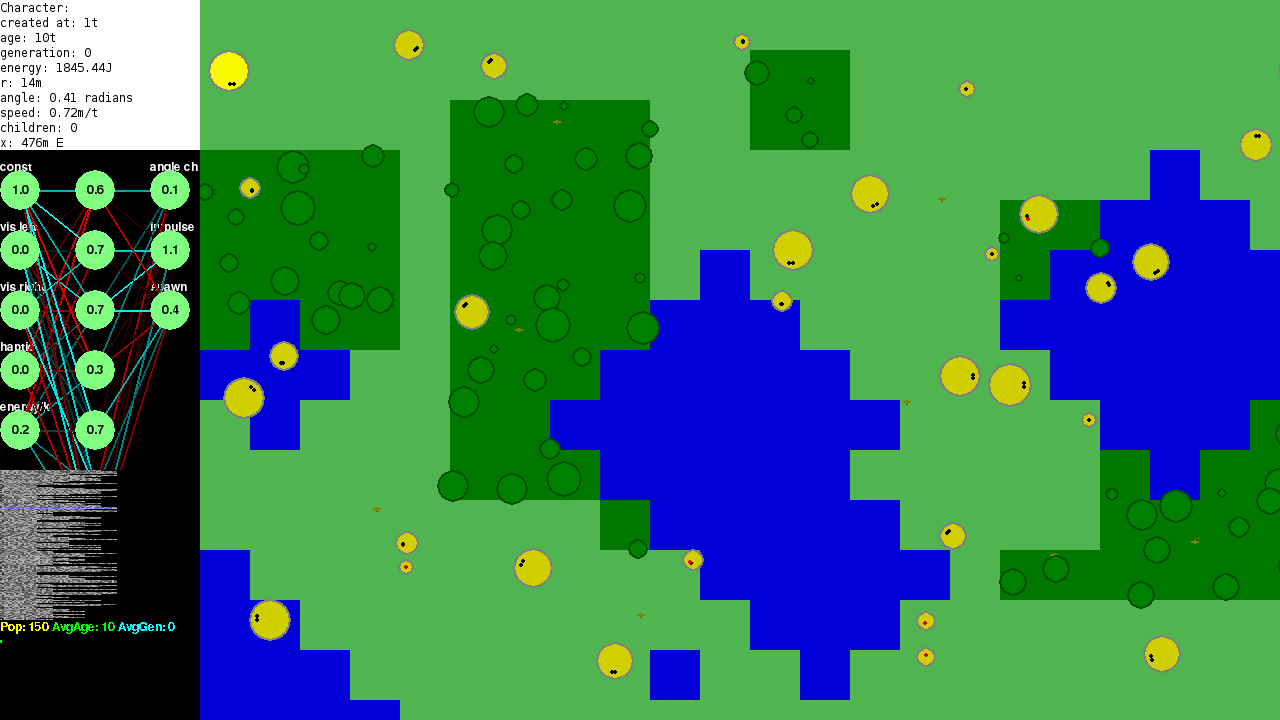
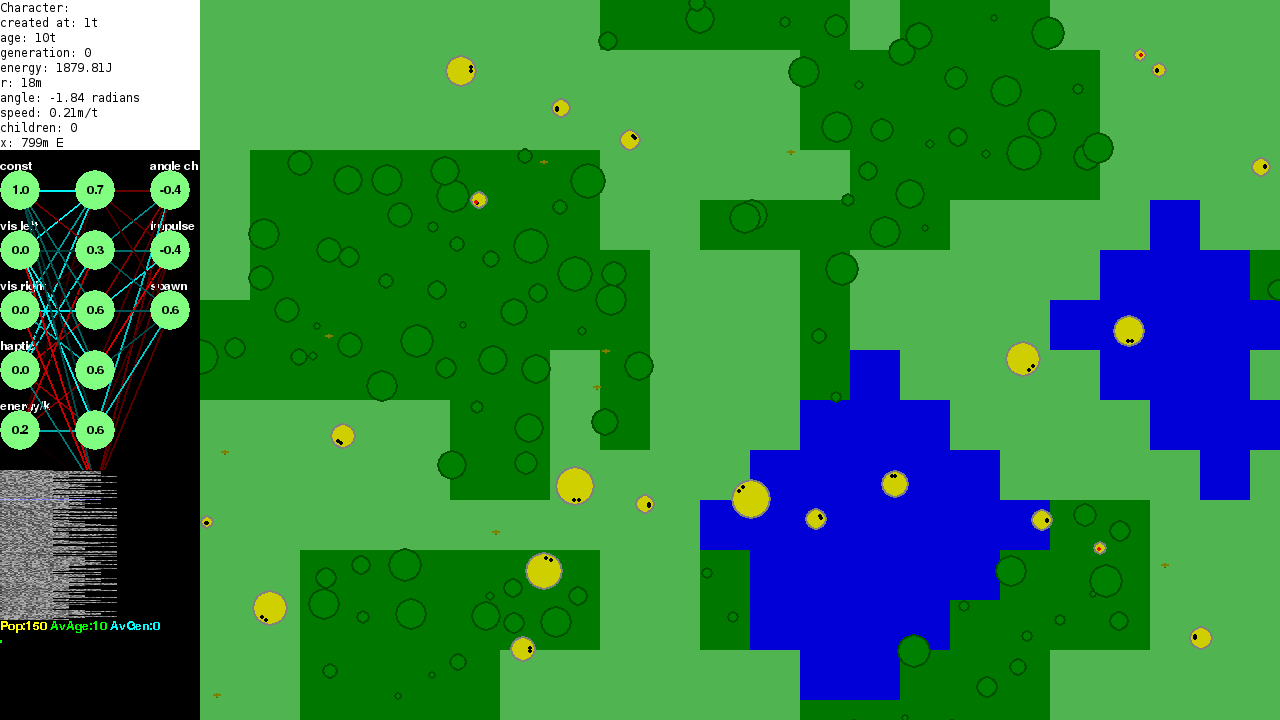
Lots more bugfixes and some optimisations
In particular, fixed neuron mutations.

diff --git a/novel-evolve/genome.py b/novel-evolve/genome.py
@@ -16,8 +16,8 @@ class Genome(object):
     @classmethod
     def from_random(cls, inputs, outputs):
         self = cls(inputs, outputs)
-        self.radius = random.randint(6, 20)
-        self.hidden_neurons = random.randint(2, 7)
+        self.radius = random.randint(7, 20)
+        self.hidden_neurons = random.randint(3, 7)
 
         # For each hidden neuron, generate the weight for each input and for
         # each output
@@ -30,18 +30,18 @@ class Genome(object):
         assert len(self.output_weights) == self.hidden_neurons * self._outputs
         return self
 
-    def _mutate_single(self, value, rate, min=0):
+    def _mutate_single(self, value, rate, min=None):
         r = random.random()
         if r < rate:
             value += random.random() * 2 - 1
-        if r < min:
-            r = min
+        if min is not None and value < min:
+            value = min
         return value
 
     def mutate(self, rate=0.01):
         new = self.__class__(self._inputs, self._outputs)
-        new.radius = int(round(self._mutate_single(self.radius, rate, min=6)))
-        new.hidden_neurons = int(round(self._mutate_single(self.hidden_neurons, rate)))
+        new.radius = int(round(self._mutate_single(self.radius, rate, min=7)))
+        new.hidden_neurons = int(round(self._mutate_single(self.hidden_neurons, rate, min=3)))
         iterate_over = self.hidden_neurons
         if new.hidden_neurons < self.hidden_neurons:
             iterate_over = new.hidden_neurons

diff --git a/novel-evolve/worldview.py b/novel-evolve/worldview.py
@@ -41,15 +41,13 @@ class WorldView(viewport.Viewport):
 
     def _create_character(self):
         character = characters.Character.from_random(self)
-        while character.x == -1 \
+        while character.midx == -1 \
         or pygame.sprite.spritecollideany(character, self.allcharacters) \
         or pygame.sprite.spritecollideany(character, self.alltrees):
-            x = random.randint(0, self.canvas_w - character.r * 2)
-            y = random.randint(0, self.canvas_h - character.r * 2)
-            character.x = x
-            character.rect.x = x
-            character.y = y
-            character.rect.y = y
+            x = random.randint(character.r, self.canvas_w - character.r)
+            y = random.randint(character.r, self.canvas_h - character.r)
+            character.set_midpoint_x(x)
+            character.set_midpoint_y(y)
         self.allcharacters.add(character)
         # debugging:
         if self.active_item is None:
@@ -60,8 +58,8 @@ class WorldView(viewport.Viewport):
         self.age += 1
         while len(self.allcharacters) < MIN_CHARACTERS:
             self._create_character()
-        for group in (self.alltiles, self.allcharacters):
-            group.update()
+        self.alltiles.update()
+        self.allcharacters.update()
         self.allcharacters.collisions()
 
     def jump_to(self, item):

diff --git a/novel-evolve/popview.py b/novel-evolve/popview.py
@@ -104,8 +104,8 @@ class TimePopView(viewport.Viewport):
             label_xoff = 0
             for label, plots, latest, colour in (
                 ('Pop', self.pop_plots, pop, (255, 255, 0)),
-                ('AvgAge', self.avgage_plots, avgage, (0, 255, 0)),
-                ('AvgGen', self.avggen_plots, avggen, (0, 255, 255))):
+                ('AvAge', self.avgage_plots, avgage, (0, 255, 0)),
+                ('AvGen', self.avggen_plots, avggen, (0, 255, 255))):
                 plots.append(latest)
                 if len(plots) > 150:
                     plots.popleft()
@@ -117,7 +117,7 @@ class TimePopView(viewport.Viewport):
                     start = (x, y)
                     end = (x, y + 2)
                     pygame.draw.line(self.canvas, colour, start, end, width)
-                text = self.font.render('%s: %d'%(label, latest), False, colour)
+                text = self.font.render('%s:%d'%(label, latest), False, colour)
                 rect = text.get_rect()
                 self.canvas.blit(text, (label_xoff, 0))
                 label_xoff += rect.w + 3

diff --git a/novel-evolve/__main__.py b/novel-evolve/__main__.py
@@ -8,7 +8,7 @@ import argparse
 import traceback
 
 import random
-random.seed(101)
+random.seed(102)
 
 import pygame
 from pygame.locals import *
@@ -116,6 +116,12 @@ def main():
                             with open('active-%s.json'%int(time.time()), 'w') as f:
                                 json.dump(window.world.active_item.dump(), f,
                                     sort_keys=True, indent=4)
+                    except:
+                        traceback.print_exc()
+                elif event.key == K_s:
+                    try:
+                        if window.world.active_item:
+                            window.world.active_item.spawn_asex()
                     except:
                         traceback.print_exc()
             elif event.type==VIDEORESIZE:

diff --git a/novel-evolve/tree.py b/novel-evolve/tree.py
@@ -10,10 +10,12 @@ class Tree(pygame.sprite.Sprite):
         self.r = r
         
         rr = r + r
-        self.image = pygame.Surface((rr + 4, rr + 4), SRCALPHA).convert_alpha()
+        self.image = pygame.Surface((rr, rr), SRCALPHA).convert_alpha()
         self.rect = self.image.get_rect()
-        self.rect.x = tile.rect.x + x - r
-        self.rect.y = tile.rect.y + y - r
+        self.midx = tile.rect.x + x
+        self.midy = tile.rect.y + y
+        self.rect.x = self.midx - r
+        self.rect.y = self.midy - r
         self.r_r = (r, r)
         self.intersect_lines = [
             ((self.rect.x, self.rect.y), (self.rect.x + rr, self.rect.y + rr)),
